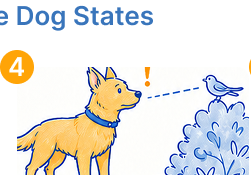
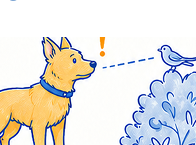
Fix emotion state images: remove number badges, ensure full dog display, fill image frame. Recropped all 5 dog emotion illustrations to remove the number badges (1-5) in the top-left corner, adjusted crop boundaries to ensure the full dog body is visible. Changed CSS from object-fit:contain to objec

diff --git a/index.html b/index.html
@@ -309,8 +309,8 @@ section{position:relative;padding-block:80px}
 .state-panel.active{display:block}
 @keyframes fadeIn{from{opacity:0;transform:translateY(8px)}to{opacity:1;transform:none}}
 .state-panel-header{display:flex;align-items:center;gap:16px;margin-bottom:20px;padding-bottom:16px;border-bottom:1px solid var(--line)}
-.state-icon{width:240px;height:144px;border-radius:16px;display:flex;align-items:center;justify-content:center;font-size:28px;overflow:hidden;flex-shrink:0;background:#fff}
-.state-icon img{width:100%;height:100%;object-fit:contain;display:block}
+.state-icon{width:220px;height:160px;border-radius:16px;display:flex;align-items:center;justify-content:center;font-size:28px;overflow:hidden;flex-shrink:0;background:#fff}
+.state-icon img{width:100%;height:100%;object-fit:cover;display:block;object-position:center}
 .state-panel-header h4{font-size:20px;font-weight:800;margin-bottom:2px}
 .state-panel-header .state-acc{font-size:13px;color:var(--muted)}
 .state-panel-header .state-acc strong{color:var(--primary);font-size:16px}
